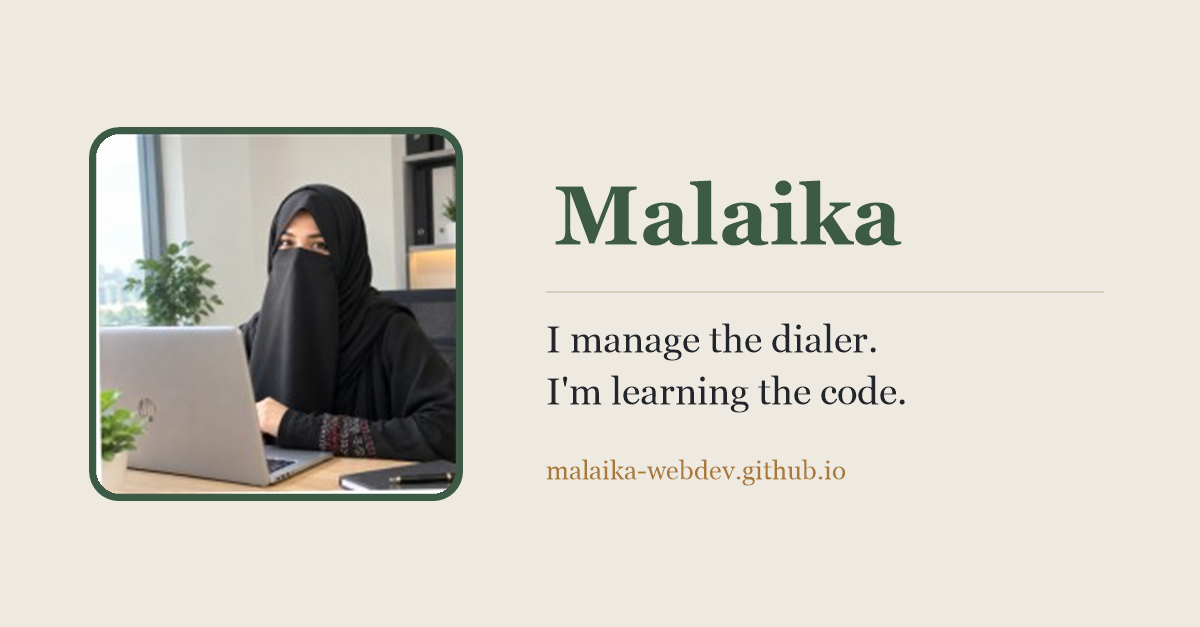
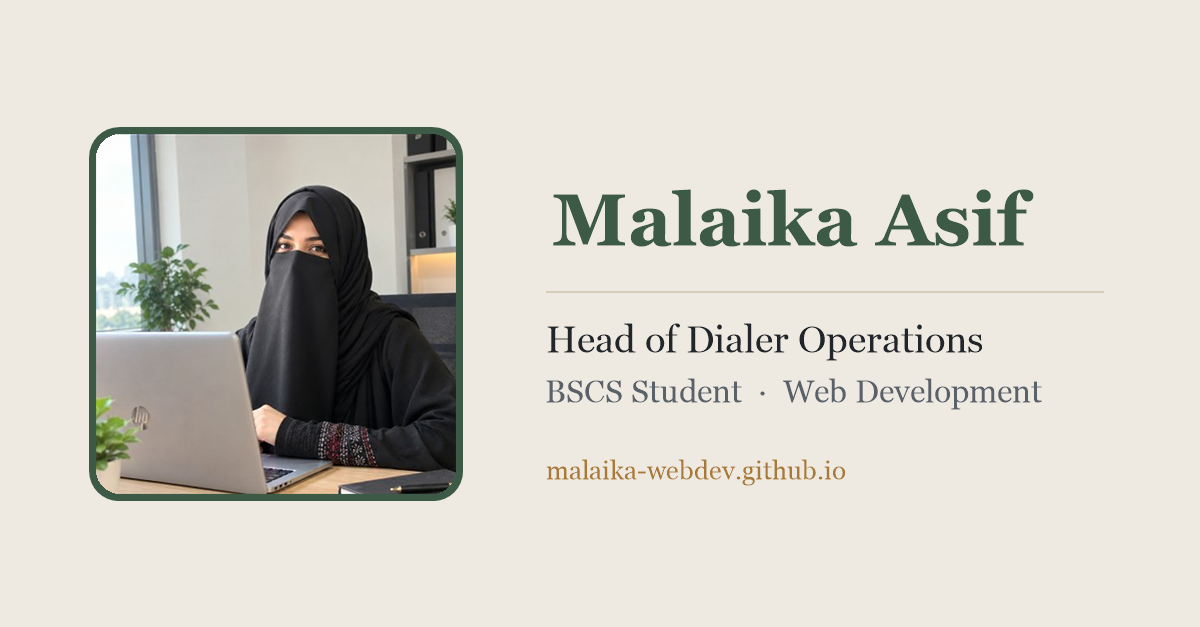
v1.0 - name, role and sharper photo

diff --git a/index.html b/index.html
@@ -3,13 +3,13 @@
 <head>
     <meta charset="UTF-8">
     <meta name="viewport" content="width=device-width, initial-scale=1.0">
-    <title>Malaika</title>
-    <meta name="description" content="I manage the dialer. I'm learning the code.">
+    <title>Malaika Asif</title>
+    <meta name="description" content="Head of Dialer Operations · BSCS Student · Web Development">
 
     <meta property="og:type" content="website">
     <meta property="og:url" content="https://malaika-webdev.github.io/">
-    <meta property="og:title" content="Malaika">
-    <meta property="og:description" content="I manage the dialer. I'm learning the code.">
+    <meta property="og:title" content="Malaika Asif">
+    <meta property="og:description" content="Head of Dialer Operations · BSCS Student · Web Development">
     <meta property="og:image" content="https://malaika-webdev.github.io/preview.png">
 
     <link rel="icon" href="favicon.svg" type="image/svg+xml">
@@ -17,10 +17,10 @@
     <link rel="stylesheet" href="style.css">
 </head>
 <body>
-    <img src="photo.jpg" alt="Malaika" width="150">
+    <img src="photo.jpg" alt="Malaika Asif" width="150">
 
-    <h1>Malaika</h1>
-    <p class="tagline">I manage the dialer. I'm learning the code.</p>
+    <h1>Malaika Asif</h1>
+    <p class="tagline">Head of Dialer Operations · BSCS Student · Web Development</p>
 
     <h2>About</h2>
     <p>My work is calls: campaigns, agents, connect rates, and the small fixes that keep a floor running.</p>
@@ -29,9 +29,11 @@
     <h2>What I Work With</h2>
     <ul>
         <li>HTML and CSS</li>
-        <li>Dialer campaigns</li>
-        <li>Team management</li>
-        <li>Operations reporting</li>
+        <li>Dialer setup and campaigns</li>
+        <li>Data cleanup and list management</li>
+        <li>Reporting and performance tracking</li>
+        <li>VoIP cost and vendor management</li>
+        <li>Team leadership</li>
     </ul>
 
     <h2>Projects</h2>
@@ -49,6 +51,6 @@
     <p>Work, a question, or a project. Email is the fastest way to reach me.</p>
     <a href="mailto:malaika.work357@gmail.com" class="button">Email me</a>
 
-    <footer>v0.8 · built by hand, one version at a time</footer>
+    <footer>v1.0 · built by hand, one version at a time</footer>
 </body>
 </html>

diff --git a/README.md b/README.md
@@ -15,6 +15,7 @@ My personal website. Built by hand with HTML and CSS, released one version at a 
 - v0.7 - link preview
 - v0.8 - link preview image
 - v0.9 - README
+- v1.0 - final check, updated skills
 
 ## Built with
 
